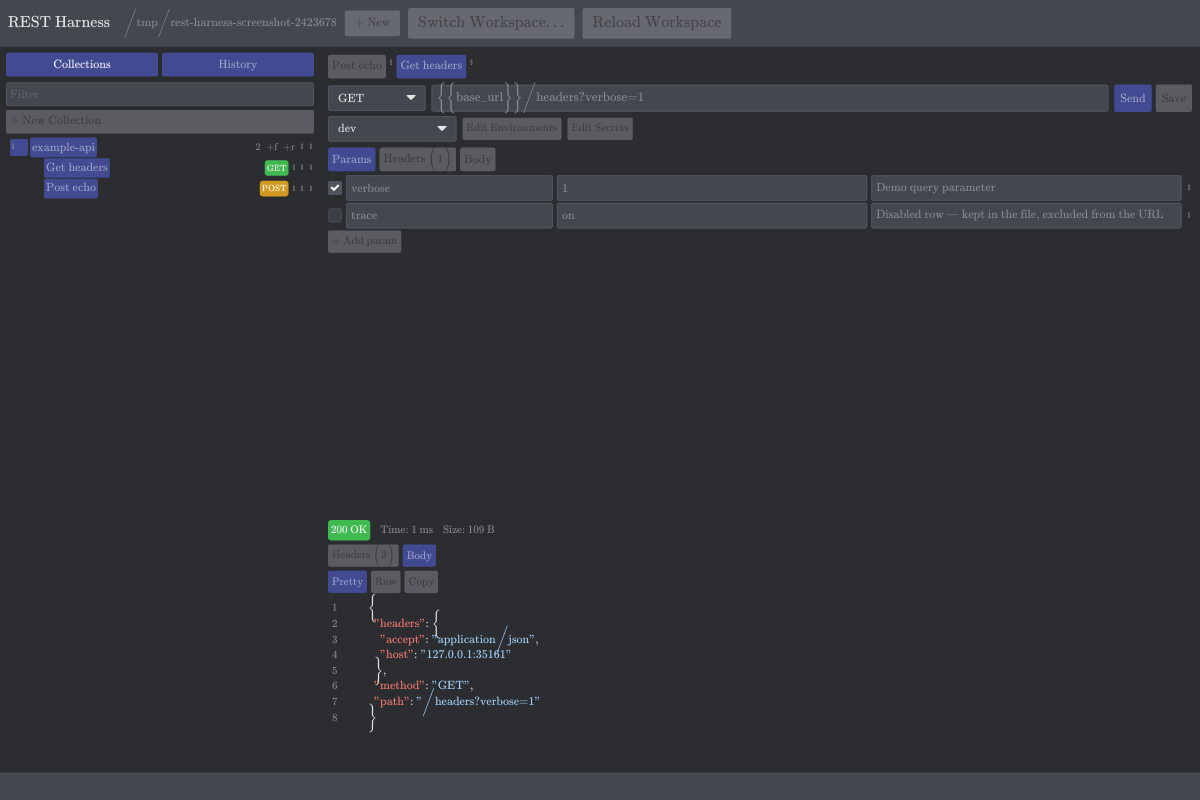
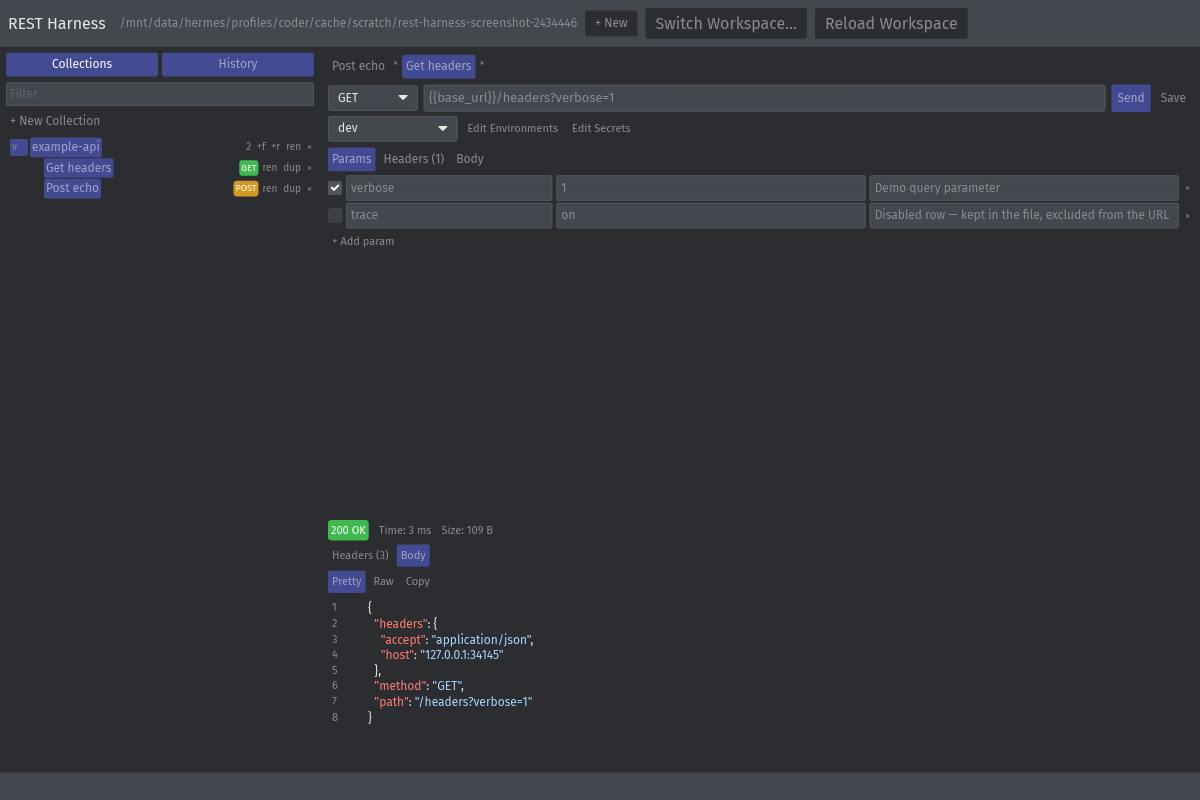
fix: explicit Fira Sans default font, supported glyphs, readable secondary buttons
- Pin the iced default font to the embedded "Fira Sans" in main.rs and
  the headless screenshot renderer: Font::default() queries "Open Sans"
  on native Linux, which is absent on this host, so cosmic-text fell
  back to KaTeX math fonts and rendered {, }, (, ) and / as 2x-height
  extension delimiters overlapping every line of the JSON viewer.
- Replace action/chevron glyphs missing from FiraSans-Regular.ttf
  (U+25BE, U+25B8, U+270E, U+29C9, U+2715) with supported characters:
  v/> for the tree chevron, ren/dup matching the +f/+r label style, and
  U+00D7 for close/delete.
- Add an app-local secondary button style (src/gui/style.rs) with light
  text on a dark slate surface; disabled text is dimmed to half alpha
  but stays legible.
- Regenerate assets/screenshot.png.

diff --git a/src/gui/composer.rs b/src/gui/composer.rs
@@ -19,6 +19,8 @@ use rest_harness::domain::{HttpMethod, RequestBody};
 
 use crate::gui::App;
 
+use super::style;
+
 /// All methods offered by the method pick list.
 const METHODS: [HttpMethod; 7] = [
     HttpMethod::Get,
@@ -86,13 +88,13 @@ fn tab_strip(state: &AppState) -> Element<'_, Message> {
                     if selected {
                         button::primary(theme, status)
                     } else {
-                        button::secondary(theme, status)
+                        style::secondary(theme, status)
                     }
                 })
                 .padding(4),
         );
         strip = strip.push(
-            button(text("✕").size(10))
+            button(text("×").size(10))
                 .on_press(Message::Tab(TabMsg::Close(tab.id)))
                 .style(button::text)
                 .padding(2),
@@ -139,7 +141,7 @@ fn header<'a>(state: &'a AppState, tab: &'a Tab) -> Element<'a, Message> {
     actions = actions.push(
         button(text("Save").size(12))
             .on_press(Message::Composer(ComposerMsg::Save))
-            .style(button::secondary)
+            .style(style::secondary)
             .padding(6),
     );
 
@@ -151,7 +153,7 @@ fn header<'a>(state: &'a AppState, tab: &'a Tab) -> Element<'a, Message> {
     let scoped = tab.env.is_some();
     let edit_button = |label: &'static str, enabled: bool, message: Message| {
         let mut button = button(text(label).size(11))
-            .style(button::secondary)
+            .style(style::secondary)
             .padding(4);
         if enabled {
             button = button.on_press(message);
@@ -270,7 +272,7 @@ fn editor_area<'a>(app: &'a App, tab: &'a Tab) -> iced::widget::Column<'a, Messa
                 if selected {
                     button::primary(theme, status)
                 } else {
-                    button::secondary(theme, status)
+                    style::secondary(theme, status)
                 }
             })
             .padding(4)
@@ -329,7 +331,7 @@ fn kv_row(
             .on_input(description_changed)
             .size(12)
             .width(Length::FillPortion(3)),
-        button(text("✕").size(10))
+        button(text("×").size(10))
             .on_press(removed)
             .style(button::text)
             .padding(2),
@@ -359,7 +361,7 @@ fn params_editor(tab: &Tab) -> Element<'static, Message> {
     list = list.push(
         button(text("+ Add param").size(11))
             .on_press(Message::Composer(ComposerMsg::ParamAdded))
-            .style(button::secondary)
+            .style(style::secondary)
             .padding(4),
     );
     scrollable(list).height(iced::Fill).into()
@@ -384,7 +386,7 @@ fn headers_editor(tab: &Tab) -> Element<'static, Message> {
     list = list.push(
         button(text("+ Add header").size(11))
             .on_press(Message::Composer(ComposerMsg::HeaderAdded))
-            .style(button::secondary)
+            .style(style::secondary)
             .padding(4),
     );
     scrollable(list).height(iced::Fill).into()
@@ -402,7 +404,7 @@ fn body_editor<'a>(app: &'a App, tab: &'a Tab) -> Element<'a, Message> {
                 if selected {
                     button::primary(theme, status)
                 } else {
-                    button::secondary(theme, status)
+                    style::secondary(theme, status)
                 }
             })
             .padding(4)
@@ -535,7 +537,7 @@ fn response_pane<'a>(tab: &'a Tab) -> iced::widget::Column<'a, Message> {
                 if selected {
                     button::primary(theme, status)
                 } else {
-                    button::secondary(theme, status)
+                    style::secondary(theme, status)
                 }
             })
             .padding(4)
@@ -574,7 +576,7 @@ fn response_pane<'a>(tab: &'a Tab) -> iced::widget::Column<'a, Message> {
                         if selected {
                             button::primary(theme, status)
                         } else {
-                            button::secondary(theme, status)
+                            style::secondary(theme, status)
                         }
                     })
                     .padding(4)
@@ -584,7 +586,7 @@ fn response_pane<'a>(tab: &'a Tab) -> iced::widget::Column<'a, Message> {
                 body_button("Raw", BodyView::Raw),
                 button(text("Copy").size(11))
                     .on_press(Message::Composer(ComposerMsg::CopyBody))
-                    .style(button::secondary)
+                    .style(style::secondary)
                     .padding(4),
             ]
             .spacing(4);

diff --git a/src/gui/modal.rs b/src/gui/modal.rs
@@ -11,6 +11,8 @@ use iced::widget::{button, column, container, pick_list, row, scrollable, text, 
 use iced::{Color, Element, Theme};
 use rest_harness::app::{AppState, Message, Modal, ModalMsg, ModalSlot, NameValue, NodeKind};
 
+use super::style;
+
 /// Render the modal overlay (dimmed backdrop + centered card).
 pub fn view(state: &AppState) -> Element<'_, Message> {
     let Some(modal) = &state.modal else {
@@ -118,7 +120,7 @@ fn delete_card(kind: NodeKind, name: String) -> Element<'static, Message> {
         row![
             button(text("Cancel").size(12))
                 .on_press(Message::Modal(ModalMsg::Cancel))
-                .style(button::secondary)
+                .style(style::secondary)
                 .padding(6),
             button(text("Delete").size(12))
                 .on_press(Message::Modal(ModalMsg::Confirm))
@@ -173,7 +175,7 @@ fn save_draft_card(
         row![
             button(text("Cancel").size(12))
                 .on_press(Message::Modal(ModalMsg::Cancel))
-                .style(button::secondary)
+                .style(style::secondary)
                 .padding(6),
             button(text("Save").size(12))
                 .on_press(Message::Modal(ModalMsg::Confirm))
@@ -196,11 +198,11 @@ fn close_dirty_card() -> Element<'static, Message> {
             .padding(6),
         button(text("Discard").size(12))
             .on_press(Message::Modal(ModalMsg::Discard))
-            .style(button::secondary)
+            .style(style::secondary)
             .padding(6),
         button(text("Cancel").size(12))
             .on_press(Message::Modal(ModalMsg::Cancel))
-            .style(button::secondary)
+            .style(style::secondary)
             .padding(6),
     ]
     .spacing(8);
@@ -255,7 +257,7 @@ fn environments_card(
         .push(row![
             button(text("Cancel").size(12))
                 .on_press(Message::Modal(ModalMsg::Cancel))
-                .style(button::secondary)
+                .style(style::secondary)
                 .padding(6),
             button(text("Save").size(12))
                 .on_press(Message::Modal(ModalMsg::Confirm))
@@ -306,7 +308,7 @@ fn secrets_card(
     card = card.push(row![
         button(text("Cancel").size(12))
             .on_press(Message::Modal(ModalMsg::Cancel))
-            .style(button::secondary)
+            .style(style::secondary)
             .padding(6),
         button(text("Save").size(12))
             .on_press(Message::Modal(ModalMsg::Confirm))
@@ -341,7 +343,7 @@ fn name_value_rows(
                     .padding(4)
                     .size(12)
                     .width(iced::Length::FillPortion(2)),
-                button(text("✕").size(10))
+                button(text("×").size(10))
                     .on_press(Message::Modal(ModalMsg::RowRemoved(slot, index)))
                     .style(button::text)
                     .padding(2),
@@ -352,7 +354,7 @@ fn name_value_rows(
     list = list.push(
         button(text(format!("+ {add_label}")).size(11))
             .on_press(Message::Modal(ModalMsg::RowAdded(slot)))
-            .style(button::secondary)
+            .style(style::secondary)
             .padding(4),
     );
     scrollable(list).height(iced::Length::FillPortion(3)).into()
@@ -372,7 +374,7 @@ fn cancel_confirm_row() -> iced::widget::Row<'static, Message> {
     row![
         button(text("Cancel").size(12))
             .on_press(Message::Modal(ModalMsg::Cancel))
-            .style(button::secondary)
+            .style(style::secondary)
             .padding(6),
         button(text("Confirm").size(12))
             .on_press(Message::Modal(ModalMsg::Confirm))

diff --git a/src/gui/sidebar.rs b/src/gui/sidebar.rs
@@ -8,6 +8,8 @@ use rest_harness::app::tree::{build_tree, SidebarNode};
 use rest_harness::app::{AppState, CrudMsg, Message, NodeKind, SidebarMsg, SidebarTab};
 use rest_harness::domain::HttpMethod;
 
+use super::style;
+
 /// Width of the sidebar column.
 const SIDEBAR_WIDTH: f32 = 320.0;
 
@@ -70,7 +72,7 @@ fn collections_view(state: &AppState) -> Element<'_, Message> {
             .size(12),
         button(text("+ New Collection").size(12))
             .on_press(Message::Crud(CrudMsg::NewCollection))
-            .style(button::secondary)
+            .style(style::secondary)
             .width(Length::Fill)
             .padding(4),
         tree_view(state),
@@ -127,7 +129,7 @@ fn push_node(
     tree
 }
 
-/// One tree row: indent, chevron, name, badges, action glyphs.
+/// One tree row: indent, chevron, name, badges, action buttons.
 /// Everything is owned, so the element is `<'static>`.
 fn tree_row(state: &AppState, node: &SidebarNode) -> Element<'static, Message> {
     let indent = node.depth as f32 * INDENT_PER_DEPTH;
@@ -138,7 +140,7 @@ fn tree_row(state: &AppState, node: &SidebarNode) -> Element<'static, Message> {
         _ => {
             let open = node.force_expanded || state.expanded.contains(&node.path);
             let mut button = button(
-                text(if open { "▾" } else { "▸" })
+                text(if open { "v" } else { ">" })
                     .size(10)
                     .style(text::secondary),
             )
@@ -188,7 +190,7 @@ fn tree_row(state: &AppState, node: &SidebarNode) -> Element<'static, Message> {
         }
     }
     actions = actions.push(action_button(
-        "✎",
+        "ren",
         Message::Crud(CrudMsg::Rename(node.path.clone())),
     ));
     // User Story 9: no Duplicate on a Collection (duplicating a Collection
@@ -196,12 +198,12 @@ fn tree_row(state: &AppState, node: &SidebarNode) -> Element<'static, Message> {
     // Delete stay available everywhere.
     if matches!(node.kind, NodeKind::Folder | NodeKind::Request) {
         actions = actions.push(action_button(
-            "⧉",
+            "dup",
             Message::Crud(CrudMsg::Duplicate(node.path.clone())),
         ));
     }
     actions = actions.push(action_button(
-        "✕",
+        "×",
         Message::Crud(CrudMsg::Delete(node.path.clone())),
     ));
 

diff --git a/src/gui/topbar.rs b/src/gui/topbar.rs
@@ -6,6 +6,8 @@ use iced::widget::{button, container, text, tooltip};
 use iced::{alignment, Element, Length, Theme};
 use rest_harness::app::{AppState, Message, TabMsg, WorkspaceMsg};
 
+use super::style;
+
 /// Render the top bar.
 pub fn view(state: &AppState) -> Element<'_, Message> {
     let root_label = state
@@ -16,7 +18,7 @@ pub fn view(state: &AppState) -> Element<'_, Message> {
 
     let new_button = button(text("+ New").size(12))
         .on_press(Message::Tab(TabMsg::NewDraft))
-        .style(button::secondary);
+        .style(style::secondary);
 
     container(
         iced::widget::row![
@@ -31,10 +33,10 @@ pub fn view(state: &AppState) -> Element<'_, Message> {
             ),
             button("Switch Workspace…")
                 .on_press(Message::Workspace(WorkspaceMsg::PickWorkspace))
-                .style(button::secondary),
+                .style(style::secondary),
             button("Reload Workspace")
                 .on_press(Message::Workspace(WorkspaceMsg::Reload))
-                .style(button::secondary),
+                .style(style::secondary),
         ]
         .align_y(alignment::Vertical::Center)
         .spacing(8)

diff --git a/src/gui/style.rs b/src/gui/style.rs
@@ -1,0 +1,22 @@
+//! App-local widget style overrides.
+
+use iced::theme;
+use iced::widget::button;
+
+/// Secondary button with light text on a dark surface: the built-in
+/// `button::secondary` in `Theme::Dark` is too dim to read.
+pub fn secondary(theme: &theme::Theme, status: button::Status) -> button::Style {
+    let mut style = button::secondary(theme, status);
+    let palette = theme.extended_palette();
+    // Dark slate surface; hover/press lift the surface for feedback, and
+    // disabled text is dimmed to half alpha but stays legible.
+    style.background = Some(match status {
+        button::Status::Hovered => palette.background.strong.color.into(),
+        _ => palette.background.base.color.into(),
+    });
+    style.text_color = match status {
+        button::Status::Disabled => palette.background.base.text.scale_alpha(0.5),
+        _ => palette.background.base.text,
+    };
+    style
+}

diff --git a/src/gui/screenshot.rs b/src/gui/screenshot.rs
@@ -338,7 +338,7 @@ fn copy_dir_recursive(source: &Path, target: &Path) -> std::io::Result<()> {
 /// Render `gui::view(app)` offscreen with the tiny-skia renderer and write
 /// an 8-bit RGBA PNG to `output`.
 fn render(app: &super::App, output: &Path) -> Result<(), String> {
-    let mut renderer = iced::Renderer::new(iced::Font::default(), iced::Pixels(16.0));
+    let mut renderer = iced::Renderer::new(iced::Font::with_name("Fira Sans"), iced::Pixels(16.0));
     let element = super::view(app);
     let mut ui = UserInterface::build(element, SIZE, Cache::new(), &mut renderer);
 

diff --git a/src/main.rs b/src/main.rs
@@ -26,6 +26,7 @@ fn main() -> iced::Result {
     iced::application(gui::boot, gui::update, gui::view)
         .title("REST Harness")
         .theme(|_: &gui::App| iced::Theme::Dark)
+        .default_font(iced::Font::with_name("Fira Sans"))
         .window_size(iced::Size::new(1200.0, 800.0))
         .subscription(gui::subscription)
         .run()

diff --git a/src/gui/mod.rs b/src/gui/mod.rs
@@ -37,6 +37,7 @@ pub mod composer;
 pub mod modal;
 pub mod screenshot;
 pub mod sidebar;
+pub mod style;
 pub mod topbar;
 
 use iced::widget::text_editor;
